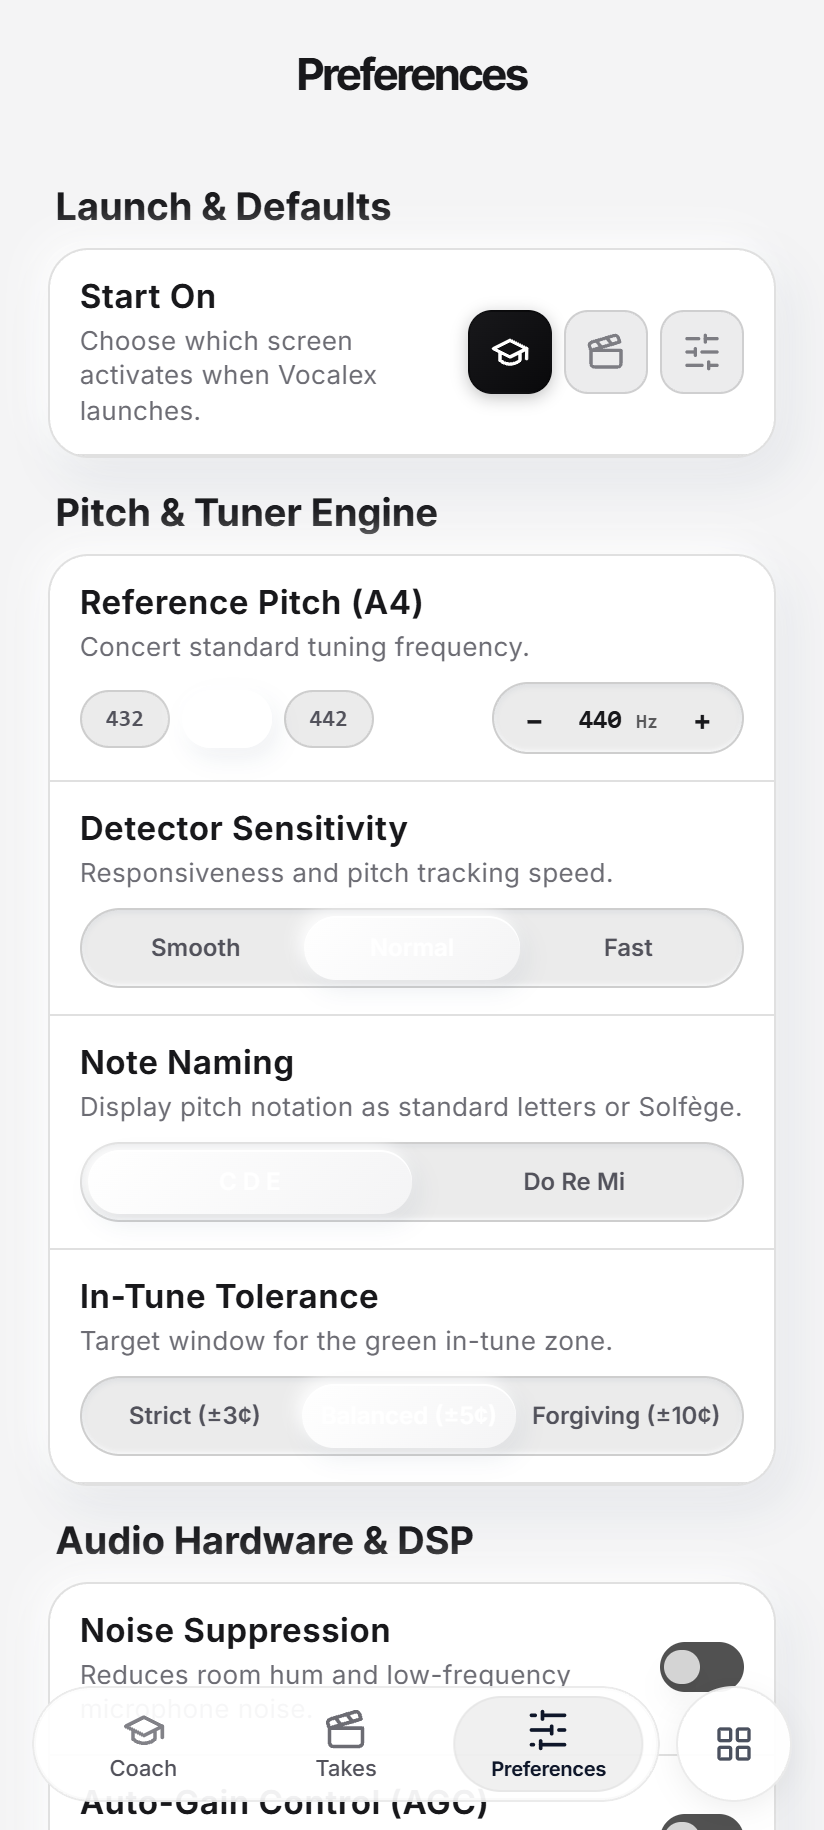
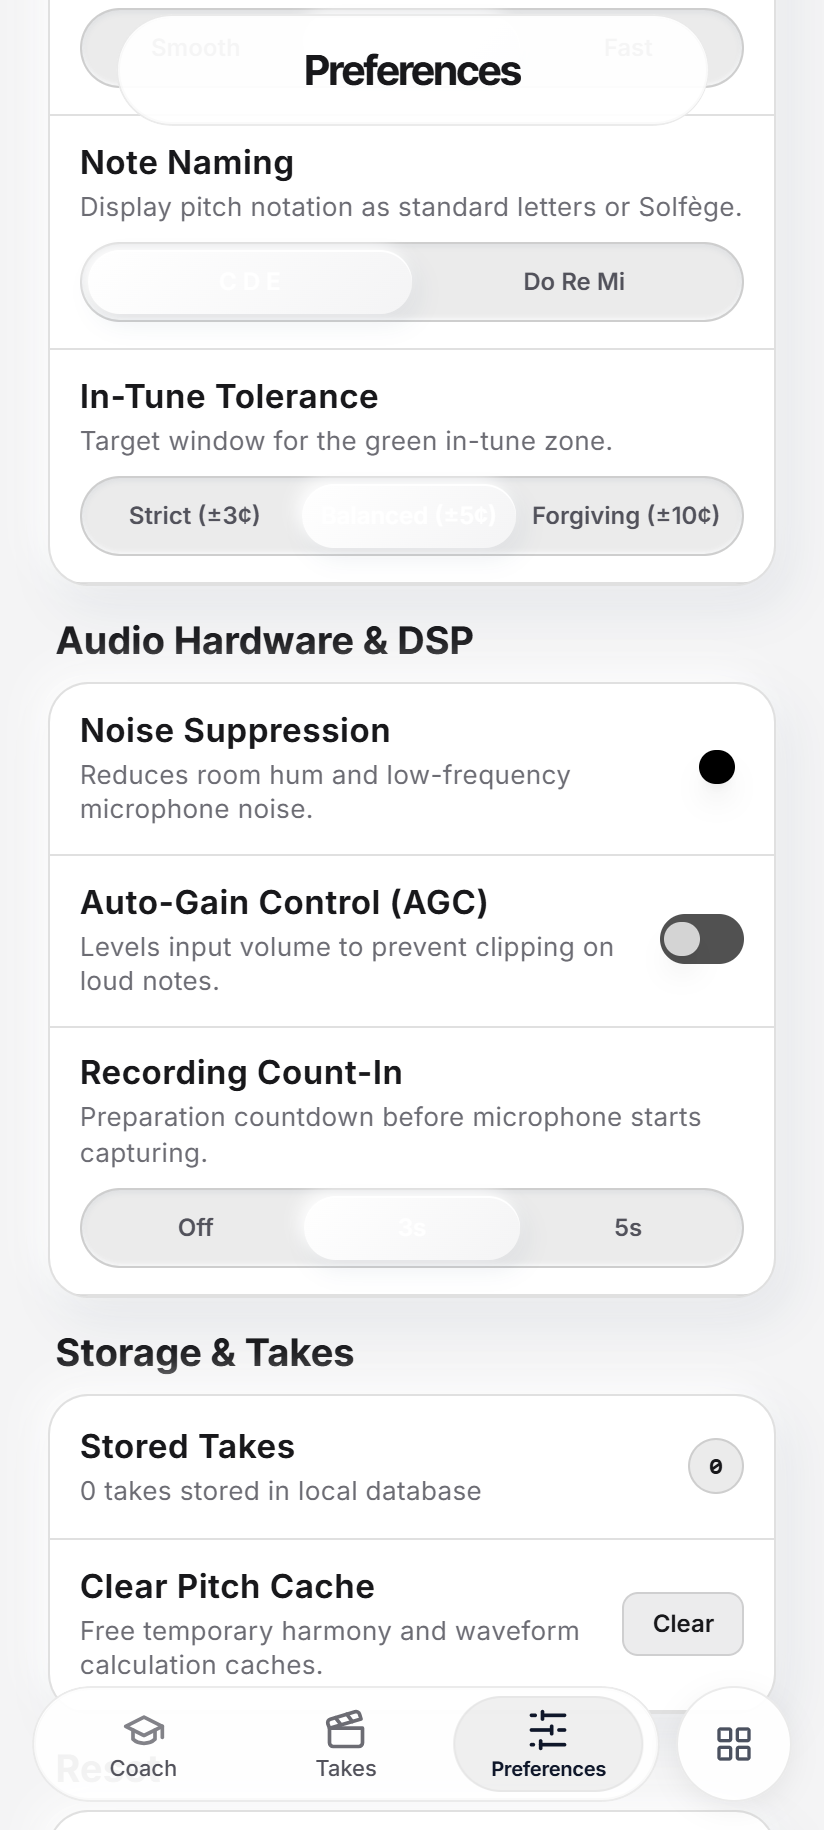
fix(ui): align toggle switches across all apps with stagex preferences standard

diff --git a/packages/ui-shared/src/shared/design-system/LiquidSwitch.tsx b/packages/ui-shared/src/shared/design-system/LiquidSwitch.tsx
@@ -48,17 +48,34 @@ export const LiquidSwitch = memo(function LiquidSwitch({
   // Dimensions
   const isSm = size === 'sm';
 
-  const handleToggle = useCallback(() => {
-    if (disabled) return;
-    const next = !isChecked;
-    onChange?.(next);
-    onValueChange?.(next);
-  }, [disabled, isChecked, onChange, onValueChange]);
+  const handleToggle = useCallback(
+    (next: boolean) => {
+      if (disabled) return;
+      onChange?.(next);
+      onValueChange?.(next);
+    },
+    [disabled, onChange, onValueChange]
+  );
+
+  const switchButton = (
+    <Switch
+      checked={isChecked}
+      disabled={disabled}
+      onCheckedChange={handleToggle}
+      aria-label={ariaLabel || label || 'Toggle switch'}
+      data-testid={resolvedTestId ? `${resolvedTestId}-track` : undefined}
+      className={className}
+    />
+  );
+
+  if (!label && !description) {
+    return switchButton;
+  }
 
   return (
     <div
       data-testid={resolvedTestId}
-      onClick={handleToggle}
+      onClick={() => handleToggle(!isChecked)}
       style={{
         display: 'inline-flex',
         alignItems: 'center',
@@ -73,51 +90,41 @@ export const LiquidSwitch = memo(function LiquidSwitch({
       }}
       className={`sc-liquid-switch-container ${className}`}
     >
-      {(label || description) && (
-        <div style={{ display: 'flex', flexDirection: 'column', flex: 1, minWidth: 0, paddingRight: 8 }}>
-          {label && (
-            <span
-              style={{
-                fontSize: isSm ? '13.5px' : '15px',
-                lineHeight: '20px',
-                fontWeight: 500,
-                color: 'var(--c-text-primary, #ffffff)',
-                fontFamily: 'var(--type-body-font, var(--studio-font-body, inherit))',
-                letterSpacing: '0.2px',
-              }}
-            >
-              {label}
-            </span>
-          )}
-          {description && (
-            <span
-              style={{
-                fontSize: '12px',
-                lineHeight: '16px',
-                fontWeight: 400,
-                color: 'var(--c-text-secondary, var(--muted, #9ca3af))',
-                marginTop: 2,
-              }}
-            >
-              {description}
-            </span>
-          )}
-        </div>
-      )}
-      <Switch
-        checked={isChecked}
-        disabled={disabled}
-        aria-label={ariaLabel || label || 'Toggle switch'}
-        data-testid={resolvedTestId ? `${resolvedTestId}-track` : undefined}
-        onClick={(e) => {
-          // Wrapper owns the toggle so label taps and switch taps behave identically.
-          e.preventDefault();
-        }}
-      />
+      <div style={{ display: 'flex', flexDirection: 'column', flex: 1, minWidth: 0, paddingRight: 8 }}>
+        {label && (
+          <span
+            style={{
+              fontSize: isSm ? '13.5px' : '15px',
+              lineHeight: '20px',
+              fontWeight: 500,
+              color: 'var(--c-text-primary, #ffffff)',
+              fontFamily: 'var(--type-body-font, var(--studio-font-body, inherit))',
+              letterSpacing: '0.2px',
+            }}
+          >
+            {label}
+          </span>
+        )}
+        {description && (
+          <span
+            style={{
+              fontSize: '12px',
+              lineHeight: '16px',
+              fontWeight: 400,
+              color: 'var(--c-text-secondary, var(--muted, #9ca3af))',
+              marginTop: 2,
+            }}
+          >
+            {description}
+          </span>
+        )}
+      </div>
+      {switchButton}
     </div>
   );
 });
 
 export default LiquidSwitch;
+
 
 

diff --git a/packages/ui-shared/src/components/ui/Switch.tsx b/packages/ui-shared/src/components/ui/Switch.tsx
@@ -35,7 +35,7 @@ export const Switch = forwardRef<HTMLButtonElement, SwitchProps>(function Switch
         'peer inline-flex h-7 w-12 shrink-0 cursor-pointer items-center rounded-full border-2 border-transparent transition-colors',
         'focus-visible:outline-none disabled:cursor-not-allowed disabled:opacity-50',
         'data-[state=checked]:bg-white data-[state=unchecked]:bg-neutral-800 dark:data-[state=unchecked]:bg-neutral-800/80',
-        'data-[state=checked]:shadow-[inset_0_0_0_1px_rgba(255,255,255,0.2)]',
+        'data-[state=checked]:shadow-[inset_0_0_0_1px_rgba(0,0,0,0.15)] dark:data-[state=checked]:shadow-[inset_0_0_0_1px_rgba(255,255,255,0.2)]',
         className
       )}
       {...props}
